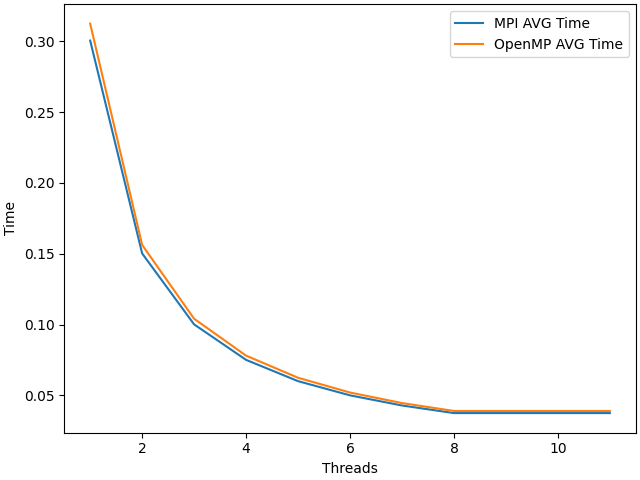
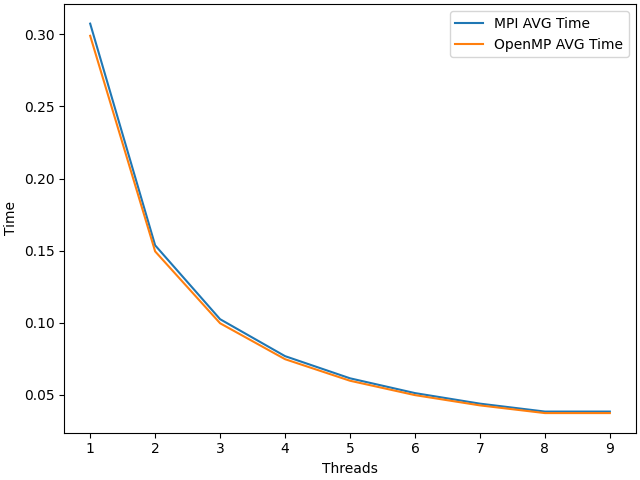
hui

diff --git a/lab5/src/parallel_core.py b/lab5/src/parallel_core.py
@@ -4,9 +4,9 @@ from logger import logger
 import matplotlib.pyplot as plt
 from abc import ABC
 
-AVG_RUNS = 10
+AVG_RUNS = 1
 MAX_SYSTEM_THREADS = 8
-MAX_TEST_THREAD = 12
+MAX_TEST_THREAD = 10
 
 
 class ParallelExecutor:
@@ -128,8 +128,8 @@ class Visualizer:
         self.data_core2 = Lab1DataCore(self.experimental_data2)
 
     def visualize_average_time(self, name="AVG_time.png"):
-        xt, yt = self.data_core.load_theoretical_average_time()
-        xp, yp = self.data_core2.load_theoretical_average_time()
+        xt, yt = self.data_core2.load_theoretical_average_time()
+        xp, yp = self.data_core.load_theoretical_average_time()
         fig, ax = plt.subplots(layout='constrained')
         ax.plot(xt, yt, label="MPI AVG Time")
         ax.plot(xp, yp, label="OpenMP AVG Time")
@@ -139,8 +139,8 @@ class Visualizer:
         fig.savefig(name)
 
     def visualize_acceleration(self, name="acceleration.png"):
-        xt, yt = self.data_core.load_practical_acceleration()
-        xp, yp = self.data_core2.load_practical_acceleration()
+        xt, yt = self.data_core2.load_practical_acceleration()
+        xp, yp = self.data_core.load_practical_acceleration()
         fig, ax = plt.subplots(layout='constrained')
         ax.plot(xt, yt, label="MPI Acceleration")
         ax.plot(xp, yp, label="OpenMP Acceleration")
@@ -150,8 +150,8 @@ class Visualizer:
         fig.savefig(name)
 
     def visualize_efficiency(self, name="efficiency.png"):
-        xt, yt = self.data_core.load_theoretical_efficiency()
-        xp, yp = self.data_core2.load_theoretical_efficiency()
+        xt, yt = self.data_core2.load_theoretical_efficiency()
+        xp, yp = self.data_core.load_theoretical_efficiency()
         fig, ax = plt.subplots(layout='constrained')
         ax.plot(xt, yt, label="MPI Efficiency")
         ax.plot(xp, yp, label="OpenMP Efficiency")
